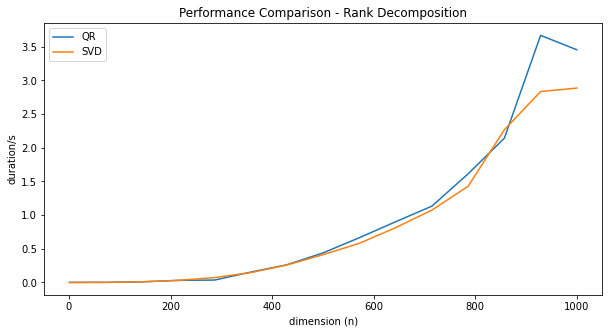
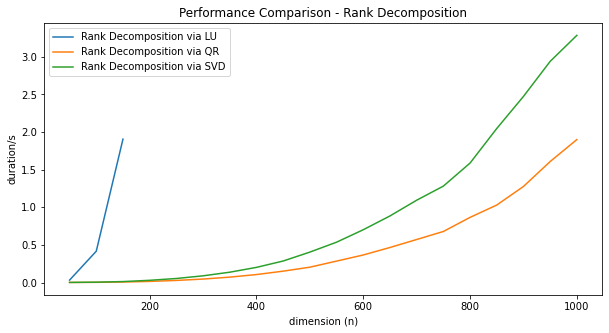
Finishing touches.

diff --git a/content/posts/2021-03-05-Rank-Decomposition/index.md b/content/posts/2021-03-05-Rank-Decomposition/index.md
@@ -20,7 +20,10 @@ mathjax: true
         padding: 0.1em;
     }
 }
-
+.center {
+    display: block;
+    margin:auto
+}
 </style>
 
 <div style="display:none">
@@ -430,7 +433,7 @@ are provided as part of the new [libla](https://github.com/HeinrichHartmann/libl
 Pointers:
 
 * [Rank Decomposition via LU Decomposition](https://github.com/HeinrichHartmann/libla/blob/0.0.1/main.py#L299), using a manual
-  implementation of Gauss Elimination (SLOW).
+  implementation of Gauss Elimination.
 
 * [Rank Decomposition via QR Decomposition](https://github.com/HeinrichHartmann/libla/blob/0.0.1/main.py#L374), based on `scipy.linalg.qr`.
 
@@ -438,10 +441,9 @@ Pointers:
 
 
 **Numeric Example**
-The following illustration shows plots (python/matplotlib/imshow) of the rank decomposition
-of a random $20 \times 50$ matrix of rank 10.
+The following illustration shows plots of the rank decomposition of a random $20 \times 50$ matrix of rank 10.
 
-<img src="./rd.png" style="width: 80%"/>
+<img src="./rd.png" style="width: 80%" class="center"/>
 
 In all three cases we see that $X$ has large diagonal components, reminding us that $X$ was
 constructed as modification of the identity matrix. In case (1) we can see that $X,Y$ are products
@@ -449,29 +451,30 @@ of permutation matrices and triangular matrices. The same holds true for $Y$ in 
 
 ### Performance
 
-The performance of QR- and SVD-based Rank Decomposition are compared in this graph.
-Our implementation Rank Decomposition with LU Factorization is an order of magnitude slower.
+The performance of the three Rank Decomposition methods are compared in this graph.
 
-{{< figure src="./bench.png" title="Performance Comparison: Rank Decomposition" >}}
+<img src="./bench.png" class="center">
 
-In this experiment we computed the Rank Decomposition of randomized $n \times n$ matrices of rank $n/2$.
+The code for this benchmark can be found [here](https://github.com/HeinrichHartmann/libla/blob/master/examples/Benchmark.ipynb).
+We ran each method 5 times for each selected n and report the fastest run.
 
-From this example it can be seen, that the implemented SVD and QR methods perform nearly identical.
-The raw QR factorization is a factor of 2-3 faster than SVD on my machine, so there is a
-considerable amount of overhead caused by post-processing steps necessary for in the QR variant,
-that leave potential for optimization.
+- The run-time of Rank Decomposition via LU Factorization explodes right away. We stopped measuring
+  at n=150 since it already took over a second to complete. The reason for this is, that we had
+  to roll our own Gauss Elimination algorithm in Python. A C/Fotran implementation would be much faster.
+
+- The QR method is about twice as fast as SVD in our implementation. We checked with a profiler,
+  that >90% of the run-time is spent inside the QR/SVD calls. Based on the theoretical complexity
+  estimations, we would have expected the run-time advantage of QR to be more pronounced.
 
 ## Summary
 
-**Comparison**
+|#| Method | Complexity* | Perf. (n=1000) | Stability | Implementation |
+|-|--------|------------:|------------------:|-----------|---------------:|
+|1| RD via LU | $0.66 n^3$ |    ?  | stable in practice  | not available in LAPAC |
+|2| RD via QR | $1.16 n^3$ | ~2.0s  | stable in practice  | available |
+|3| RD via SVD | $23 n^3$                | ~3.3s  | stable | available|
 
-|#| Method | Complexity* | Stability | Implementation |
-|-|-|-:|-|-|
-|1| RD via LU Factorization | $0.66 n^3$  | stable in practice  | not available in LAPAC |
-|2| RD via QR Factorization | $1.16 n^3$ | stable in practice  | available |
-|3| RD via SVD | $23 n^3$ | stable | available|
-
-*) Formulas simplified to the case $n = m$ with $rk(A) = n/2$.
+*) For the case $n = m$ with $rk(A) = n/2$.
 
 It turns out that determining the most fundamental invariant of a matrix, it's rank, is actually a
 numerically challenging problem, that can not be directly derived from the basic matrix
@@ -479,14 +482,16 @@ factorization algorithms (LU, QR) in their common form. Instead we have to eithe
 strengthened variants, which still have theoretical deficits, or to the much more advanced Singular
 Value Decomposition.
 
-Of the three studied methods QR and SVD give practical ways to calculate a rank decomposition in the
-Python/numpy/LAPACK ecosystem. As the performance difference is minimal, and the SVD variant is more
-powerful and convenient to use, the SVD variant is to be recommended for practical purposes at this
-point in time.
+Of the three studied methods QR (with column pivoting) and SVD give practical ways to calculate a
+rank decomposition in the Python/numpy ecosystem. The performance of the QR method is better by a
+factor of two, than SVD variant.  The latter has the advantage, of yielding a more powerful
+decomposition, and has usability advantages since the vanilla scipy/SVD can be used, without
+configuration or post-processing steps.
 
-From the theoretical perspective, LDU factorization would be better fit, since it is much faster
-simple and should be well suited for practical applications. However, since the numpy/LAPAC does not
-come with a suitable LU implementation we don't have a competitive implementation at hand.
+From the theoretical perspective, LU factorization with total pivoting would be better fit, since it
+is much faster simple and should be well suited for practical applications. However, since the
+numpy/LAPACK does not come with a suitable LU implementation we don't have a competitive
+implementation at hand.
 
 ## Literature
 
